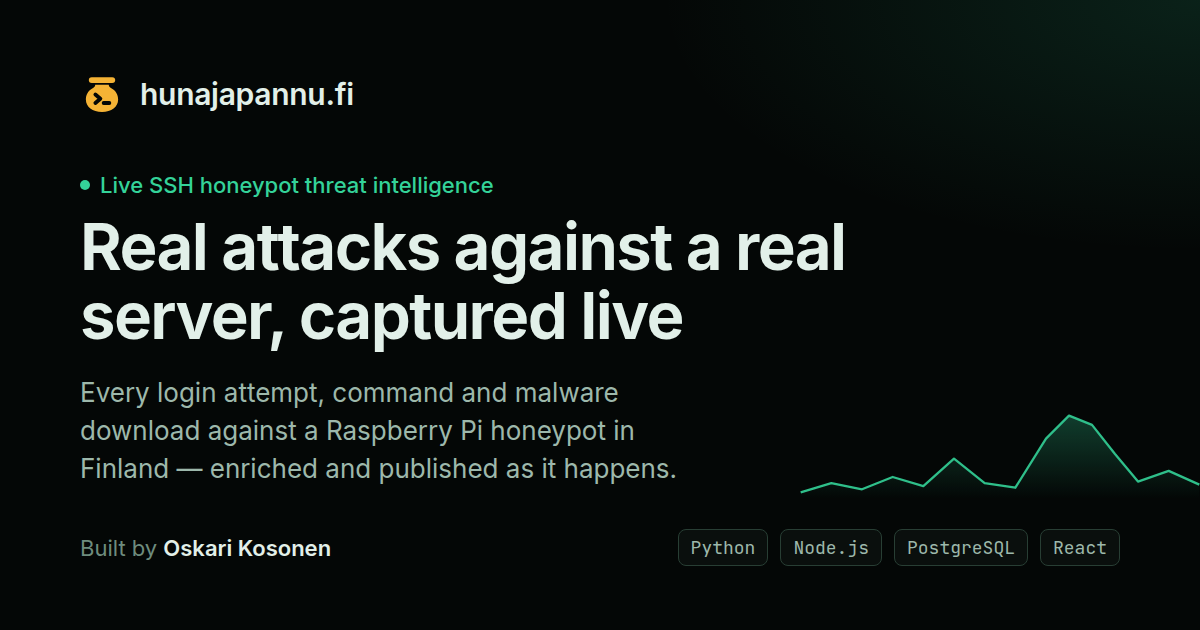
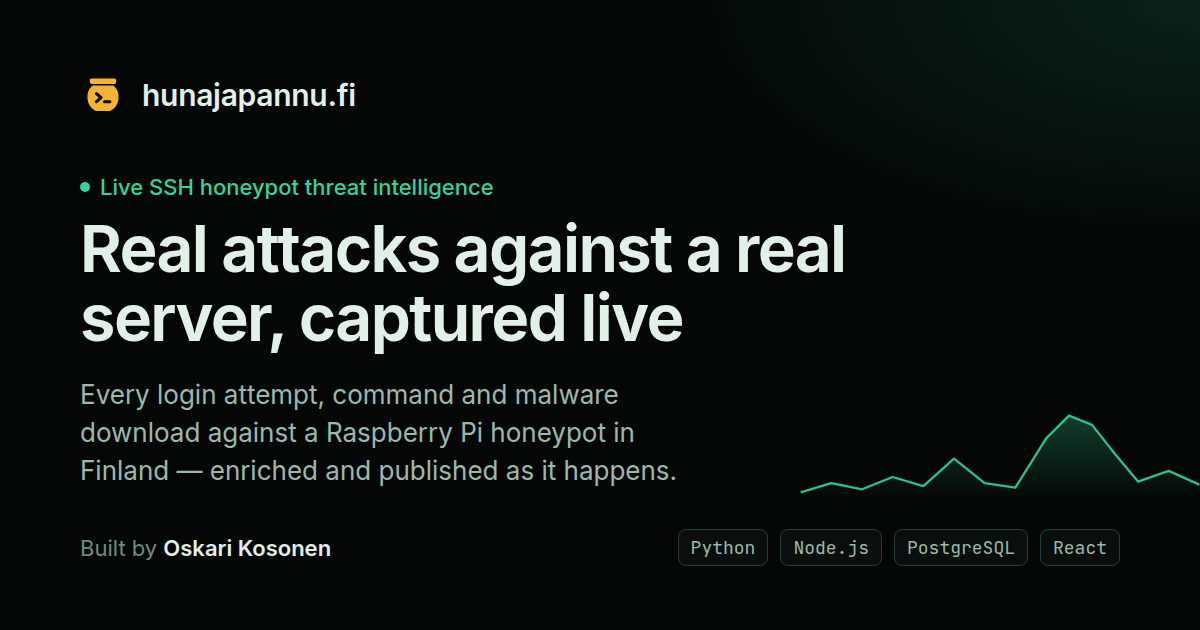
Rebuild the honey-pot mark from geometry
The first pot was drawn by eye: a lumpy belly, a pill-shaped rim and a
prompt too big for it. The mark is now constructed on a 48-unit grid:

- The body is one circle (r 15.5) cut flat at the opening and at the
  base, so its curve is exact and the base sits flat.
- The rim is a 26-unit bar, wider than the opening and narrower than the
  belly, a fixed gap above the body.
- A 1.6-unit stroke in the fill colour gives every corner the same small
  radius, where before the rim was round and the body sharp.
- The prompt is smaller and sits on the body's optical centre, and the
  whole mark is centred in its box instead of 2.4 units low.

Favicon, in-app mark, touch icon, link preview and README screenshot all
updated.

diff --git a/frontend/src/components/ui/icons.jsx b/frontend/src/components/ui/icons.jsx
@@ -121,33 +121,41 @@ export const LinkedInIcon = ({ size = 16, className = "" }) => (
 /**
  * The brand mark: a honey pot with a shell prompt cut out of its belly.
  * Hunajapannu is Finnish for honey pot, and what this one catches is typed
- * into a terminal. Honey amber is the one colour in the brand that is not the
- * UI's emerald, so the mark reads as honey before anyone parses the shape.
- * The prompt is a mask rather than paint, so it shows the surface beneath.
+ * into a terminal.
+ *
+ * Constructed on a 48 grid rather than drawn: the body is one circle
+ * (r 15.5) cut flat at the opening and the base, the rim a 26-unit bar a
+ * fixed gap above it, and a 1.6 stroke in the fill colour gives every corner
+ * the same small radius. Honey amber is the one colour in the brand that is
+ * not the UI's emerald. The prompt is a mask, so it shows the surface beneath.
  */
-const LOGO_RIM = "M6.4 2.8h11.2a1.6 1.6 0 0 1 0 3.2H6.4a1.6 1.6 0 0 1 0-3.2Z";
-const LOGO_BELLY =
-  "M8.3 6.9h7.4c0 .9.5 1.4 1.4 1.9 2.4 1.3 3.7 3.5 3.7 6.2 0 4-3.6 6.8-8.8 6.8s-8.8-2.8-8.8-6.8c0-2.7 1.3-4.9 3.7-6.2.9-.5 1.4-1 1.4-1.9Z";
-const LOGO_PROMPT = "M8.4 12.3l2.7 2.3-2.7 2.3M12.9 16.9h3.1";
+const LOGO_BODY = "M13.29 15H34.71A15.5 15.5 0 0 1 31.44 39.8H16.56A15.5 15.5 0 0 1 13.29 15Z";
+const LOGO_PROMPT = "M17.2 22.6l4.8 4.2-4.8 4.2M25.6 31h5.6";
 
 export const LogoMark = ({ size = 22, className = "" }) => {
   const id = useId();
   return (
-    <svg width={size} height={size} viewBox="0 0 24 24" aria-hidden="true" className={`shrink-0 ${className}`}>
+    <svg width={size} height={size} viewBox="0 0 48 48" aria-hidden="true" className={`shrink-0 ${className}`}>
       <mask id={id}>
-        <rect width="24" height="24" fill="#fff" />
+        <rect width="48" height="48" fill="#fff" />
         <path
           d={LOGO_PROMPT}
           fill="none"
           stroke="#000"
-          strokeWidth="2.1"
+          strokeWidth="3.2"
           strokeLinecap="round"
           strokeLinejoin="round"
         />
       </mask>
-      <g fill="rgb(var(--honey))" mask={`url(#${id})`}>
-        <path d={LOGO_RIM} />
-        <path d={LOGO_BELLY} />
+      <g
+        fill="rgb(var(--honey))"
+        stroke="rgb(var(--honey))"
+        strokeWidth="1.6"
+        strokeLinejoin="round"
+        mask={`url(#${id})`}
+      >
+        <rect x="11" y="7.6" width="26" height="4" rx="1.2" />
+        <path d={LOGO_BODY} />
       </g>
     </svg>
   );
